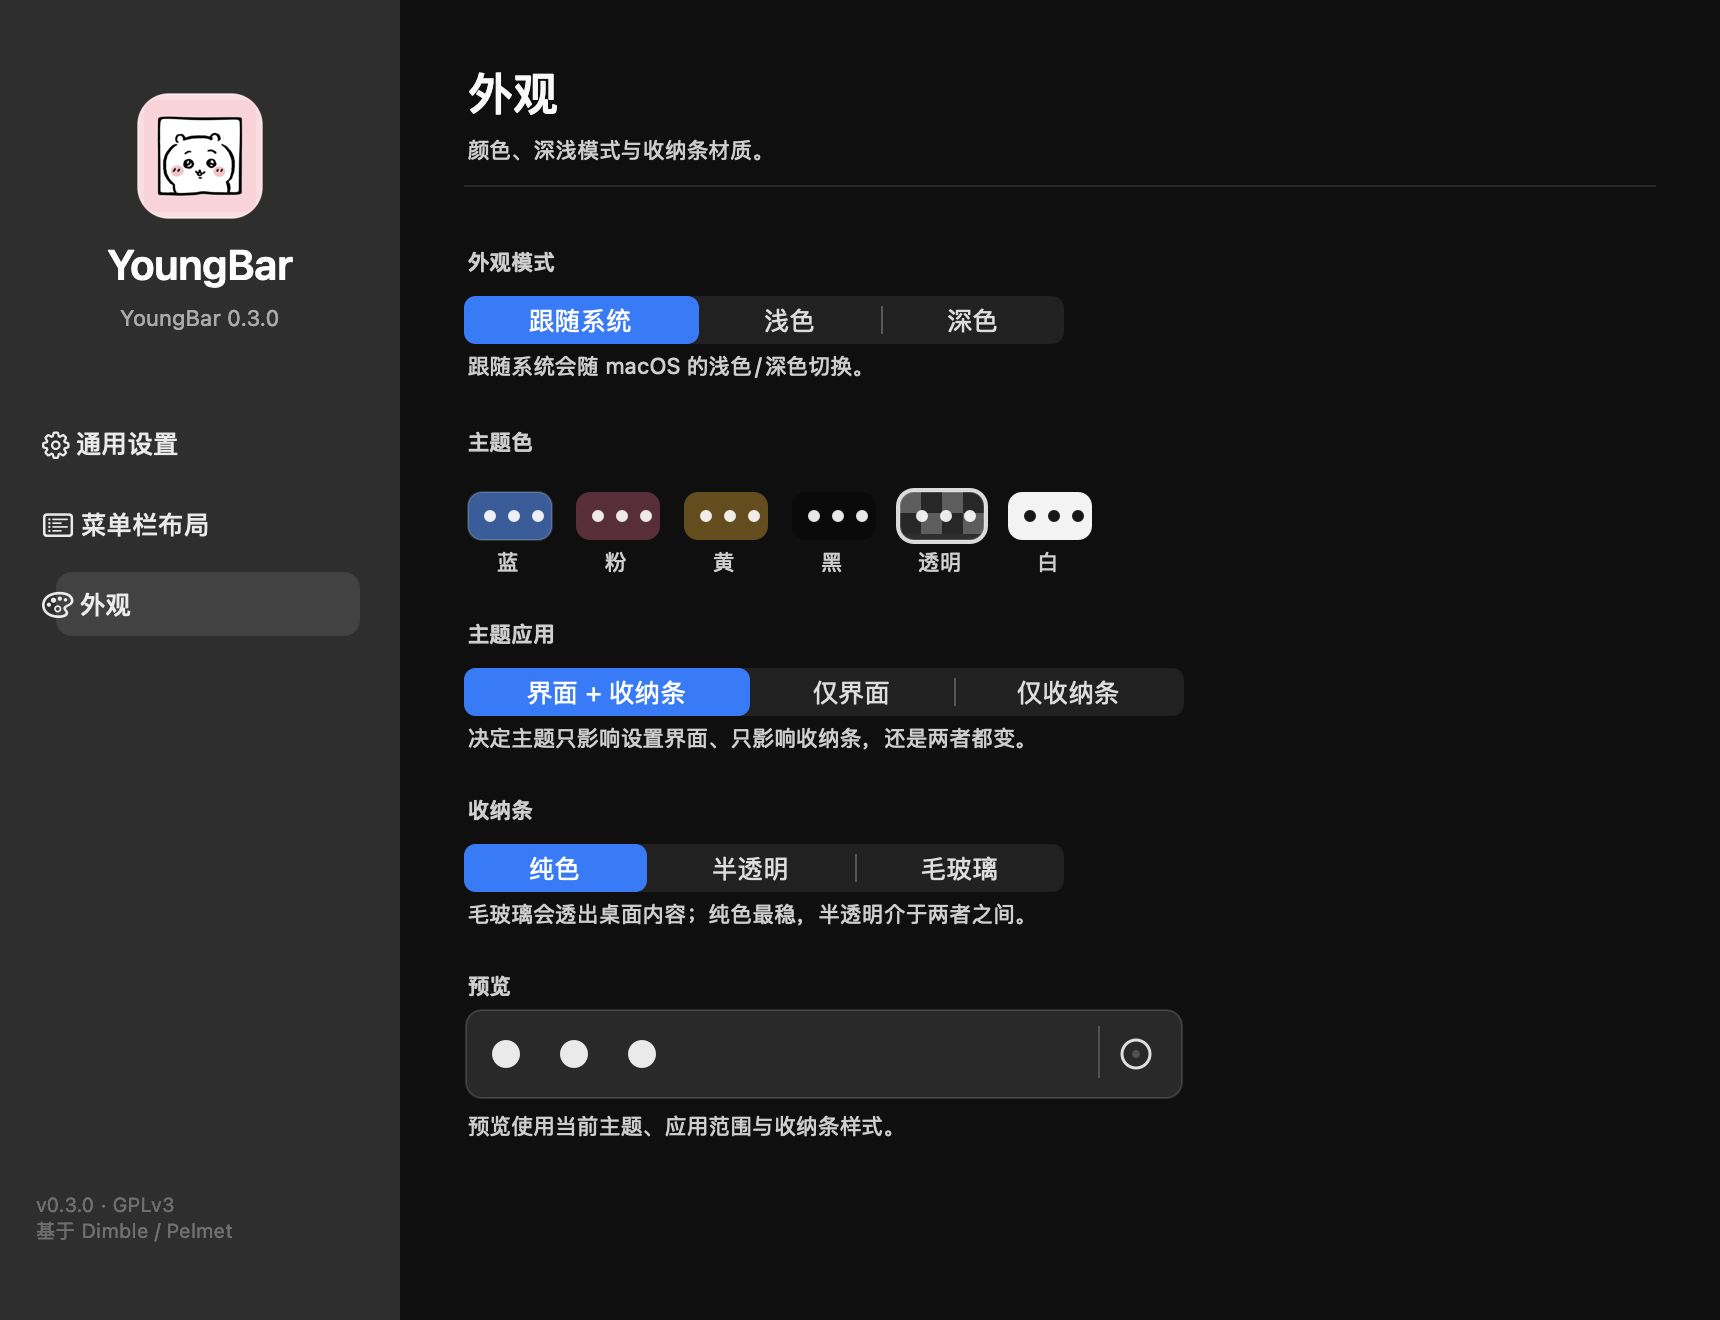
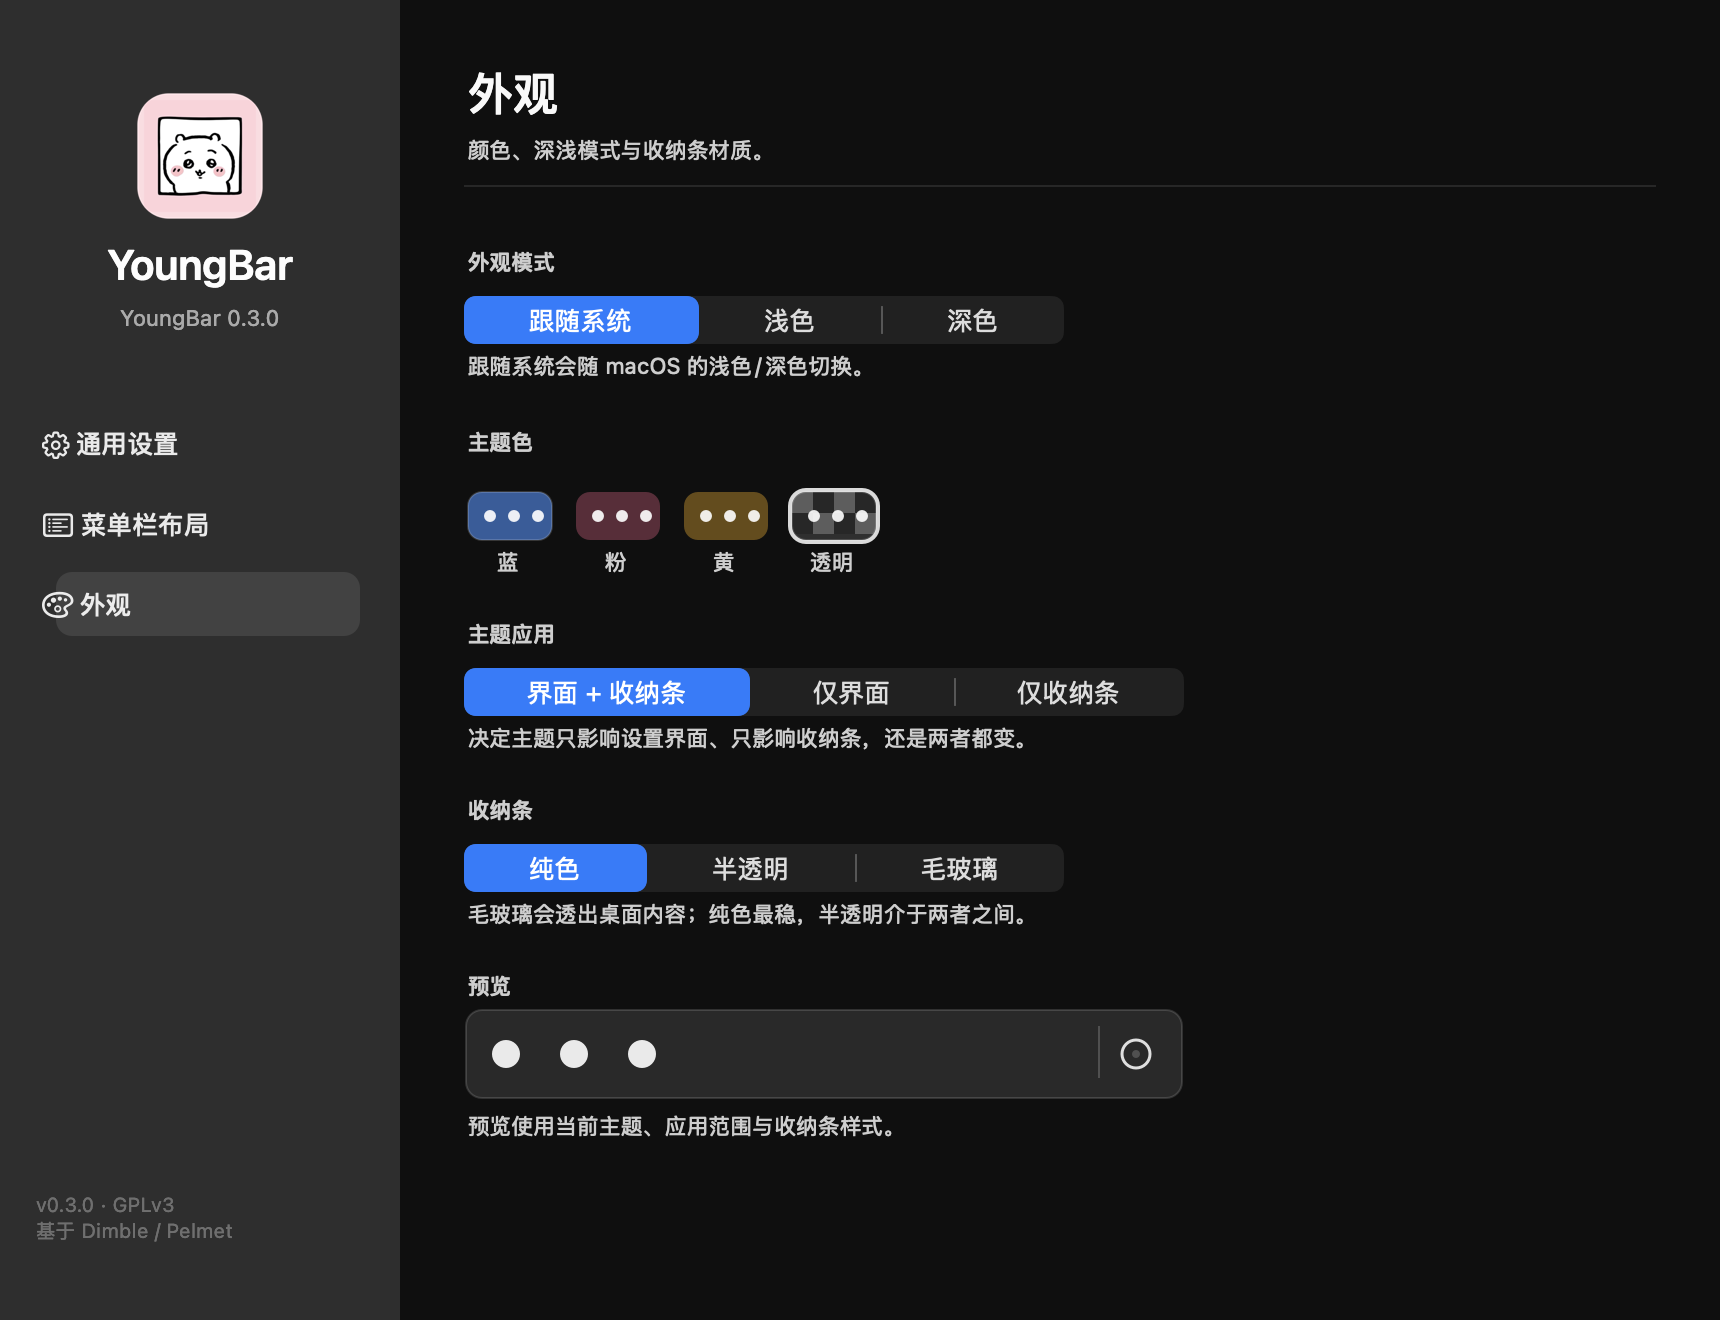
feat(youngbar): 收敛为四套主题，透明跟随系统深浅
- 移除黑/白主题，只保留蓝/粉/黄/透明
- 透明=原生玻璃，深色白图标/浅色黑图标，界面中性
- 色块保持迷你收纳条预览
- 截图与第 133 轮日志

Changed region(s): [[0.4314, 0.3727, 0.6471, 0.4348]]

diff --git a/Sources/YoungBar/Theme.swift b/Sources/YoungBar/Theme.swift
@@ -24,16 +24,14 @@ enum AppearanceMode: Int, CaseIterable {
 /// Accent + strip palette. The strip colour is deliberately deeper than the
 /// accent so menu-bar symbols stay legible; white uses dark symbols instead.
 enum ThemeColor: Int, CaseIterable {
-    case blue, pink, yellow, black, clear, white
+    case blue, pink, yellow, clear
 
     var title: String {
         switch self {
         case .blue: return "蓝"
         case .pink: return "粉"
         case .yellow: return "黄"
-        case .black: return "黑"
         case .clear: return "透明"
-        case .white: return "白"
         }
     }
 
@@ -42,9 +40,7 @@ enum ThemeColor: Int, CaseIterable {
         case .blue: return NSColor(calibratedRed: 0.20, green: 0.45, blue: 0.95, alpha: 1)
         case .pink: return NSColor(calibratedRed: 0.85, green: 0.48, blue: 0.60, alpha: 1)
         case .yellow: return NSColor(calibratedRed: 0.90, green: 0.72, blue: 0.36, alpha: 1)
-        case .black: return NSColor(calibratedWhite: 0.56, alpha: 1)
         case .clear: return NSColor(calibratedWhite: 0.55, alpha: 1)
-        case .white: return NSColor(calibratedWhite: 0.78, alpha: 1)
         }
     }
 
@@ -53,13 +49,11 @@ enum ThemeColor: Int, CaseIterable {
         case .blue: return .clear
         case .pink: return NSColor(calibratedRed: 0.29, green: 0.12, blue: 0.17, alpha: 1)
         case .yellow: return NSColor(calibratedRed: 0.33, green: 0.23, blue: 0.06, alpha: 1)
-        case .black: return NSColor(calibratedWhite: 0.04, alpha: 1)
         case .clear: return .clear
-        case .white: return NSColor(calibratedWhite: 0.94, alpha: 1)
         }
     }
 
-    var isLightStrip: Bool { self == .white }
+    var isLightStrip: Bool { false }
     var isTransparent: Bool { self == .clear || self == .blue }
 
     /// Tint applied when the strip is rendered as glass.
@@ -76,7 +70,7 @@ enum ThemeColor: Int, CaseIterable {
         case .blue: return "Theme-blue"
         case .pink: return "Theme-pink"
         case .yellow: return "Theme-yellow"
-        case .black, .clear, .white: return nil
+        case .clear: return nil
         }
     }
 }
@@ -132,6 +126,7 @@ func themeIcon(_ color: ThemeColor) -> NSImage? {
 final class ThemePreviewView: NSView {
     var color: ThemeColor = .blue { didSet { needsDisplay = true } }
     var style: StripStyle = .solid { didSet { needsDisplay = true } }
+    var isDark: Bool = true { didSet { needsDisplay = true } }
 
     override var isFlipped: Bool { true }
 
@@ -139,8 +134,9 @@ final class ThemePreviewView: NSView {
         let rect = bounds.insetBy(dx: 1, dy: 1)
         let path = NSBezierPath(roundedRect: rect, xRadius: 8, yRadius: 8)
         if color.isTransparent {
-            NSColor(white: 0.24, alpha: 0.55).setFill(); path.fill()
-            if color != .clear {
+            NSColor(white: isDark ? 0.24 : 0.86, alpha: isDark ? 0.55 : 0.72).setFill()
+            path.fill()
+            if color == .blue {
                 color.glassTint.setFill(); path.fill()
             }
             NSColor.white.withAlphaComponent(0.14).setStroke(); path.lineWidth = 1; path.stroke()
@@ -156,7 +152,8 @@ final class ThemePreviewView: NSView {
             }
         }
 
-        (color.isLightStrip ? NSColor.black : NSColor.white).withAlphaComponent(0.9).setFill()
+        let symbolColor: NSColor = (color == .clear && !isDark) || color.isLightStrip ? .black : .white
+        symbolColor.withAlphaComponent(0.9).setFill()
         for index in 0..<3 {
             let x = 14 + CGFloat(index) * 34
             NSBezierPath(ovalIn: NSRect(x: x, y: rect.midY - 7, width: 14, height: 14)).fill()
@@ -165,7 +162,7 @@ final class ThemePreviewView: NSView {
         NSColor.white.withAlphaComponent(0.18).setFill()
         NSRect(x: rect.maxX - 42, y: 9, width: 1, height: rect.height - 18).fill()
 
-        (color.isLightStrip ? NSColor.black : NSColor.white).withAlphaComponent(0.85).setStroke()
+        symbolColor.withAlphaComponent(0.85).setStroke()
         let gear = NSBezierPath(ovalIn: NSRect(x: rect.maxX - 30, y: rect.midY - 7, width: 14, height: 14))
         gear.lineWidth = 1.5
         gear.stroke()

diff --git a/Sources/YoungBar/main.swift b/Sources/YoungBar/main.swift
@@ -1069,17 +1069,18 @@ final class BarApp: NSObject, NSApplicationDelegate {
         shelfPanel.setContentSize(NSSize(width: width, height: height))
         let isDark = NSApp.effectiveAppearance.bestMatch(from: [.darkAqua, .aqua]) == .darkAqua
         let themed = themeScope != .interfaceOnly
-        let effectiveColor: ThemeColor? = themed ? themeColor : nil
-        let stripColor: NSColor = effectiveColor?.strip ?? (isDark ? .black : .white)
-        let lightStrip = effectiveColor?.isLightStrip ?? !isDark
-        let transparentStrip = effectiveColor?.isTransparent ?? false
-        let useGlass = transparentStrip || stripStyle == .vibrant
+        let themeForStrip: ThemeColor? = themed ? themeColor : nil
+        let systemStrip = themeForStrip == nil || themeForStrip == .clear
+        let useGlass = systemStrip || themeForStrip == .blue || stripStyle == .vibrant
+        let lightStrip = systemStrip ? !isDark : false
         let iconColor: NSColor = lightStrip ? .black : .white
+        let glassTint: NSColor = systemStrip ? .clear : (themeForStrip?.glassTint ?? .clear)
+        let stripColor: NSColor = themeForStrip?.strip ?? .clear
 
         let background: NSView
         if useGlass {
             let effect = NSVisualEffectView(frame: NSRect(x: 0, y: 0, width: width, height: height))
-            effect.material = .hudWindow
+            effect.material = systemStrip ? (isDark ? .hudWindow : .menu) : .hudWindow
             effect.blendingMode = .behindWindow
             effect.state = .active
             effect.wantsLayer = true
@@ -1088,7 +1089,7 @@ final class BarApp: NSObject, NSApplicationDelegate {
             let tint = NSView(frame: effect.bounds)
             tint.autoresizingMask = [.width, .height]
             tint.wantsLayer = true
-            tint.layer?.backgroundColor = (effectiveColor.map(\.glassTint) ?? themeColor.glassTint).cgColor
+            tint.layer?.backgroundColor = glassTint.cgColor
             effect.addSubview(tint)
             background = effect
         } else {

diff --git a/Sources/YoungBar/BarSettings.swift b/Sources/YoungBar/BarSettings.swift
@@ -525,7 +525,8 @@ final class BarSettings: NSObject, NSTableViewDataSource, NSTableViewDelegate {
             ? theme.accent.withAlphaComponent(0.08)
             : NSColor.clear).cgColor
         let isDark = NSApp.effectiveAppearance.bestMatch(from: [.darkAqua, .aqua]) == .darkAqua
-        preview.color = scope == .interfaceOnly ? (isDark ? .black : .white) : theme
+        preview.isDark = isDark
+        preview.color = scope == .interfaceOnly ? .clear : theme
         scrim.layer?.backgroundColor = (isDark
             ? NSColor.black.withAlphaComponent(0.46)
             : NSColor.white.withAlphaComponent(0.58)).cgColor

diff --git a/docs/STATUS.md b/docs/STATUS.md
@@ -43,10 +43,10 @@
 | 卡片式布局 | ✅ 每条独立圆角行，整行可拖，无表头/边框 |
 | 一页布局 | ✅ 行高按项目数自动压缩，12 项一屏放下 | `docs/images/settings-layout.png` | `docs/images/settings-layout.png` |
 | 布局顺序校准 | ✅ 新项按真实 x 插入；可见项每次刷新校准并持久化 | `itemOrder` 以有道翻译开头；`docs/images/settings-layout.png` |
-| 外观主题 | ✅ 深/浅/跟随系统 + 6 主题色（色块为迷你收纳条）+ 3 种收纳条 |
+| 外观主题 | ✅ 深/浅/跟随系统 + 4 主题（蓝/粉/黄/透明）+ 3 种收纳条 |
 | 主题图标 | ✅ 蓝猫 / 粉羊 / 黄兔随主题切换（侧栏、关于） | `appearance-{blue,pink,yellow}.png` |
 | 主题应用范围 | ✅ 界面 + 收纳条 / 仅界面 / 仅收纳条 | `appearance-white.png`、`shelf-white.png` |
-| 蓝 / 透明区分 | ✅ 蓝=蓝色玻璃；透明=中性玻璃，不再被系统蓝染色 | `appearance-blue.png`、`appearance-clear.png`、`shelf-blue.png` | `docs/images/appearance-{dark,light}.png`、`shelf-sakura.png` |
+| 透明主题 | ✅ 跟随系统：深色玻璃白图标 / 浅色玻璃黑图标，界面中性 | `appearance-clear.png` | `docs/images/appearance-{dark,light}.png`、`shelf-sakura.png` |
 | 关于窗口 | ✅ 菜单打开，显示版本 0.3.0 (3) | `abouttest.json`；`docs/images/about.png` |
 | 全局快捷键 | ✅ ⌃⌥B 展开 / 收起，无需鼠标 | `hotkeytest.json`：`opened:true`、`closed:true`、`passed:true` |
 | 收纳条齿轮 | ✅ 真实点击打开设置并收起收纳条 | `geartest.json`：`settingsOpened:true`、`shelfClosed:true`、`passed:true` |

diff --git a/README.md b/README.md
@@ -15,7 +15,7 @@ A keyboard-first menu bar organizer for **macOS 27**. Hide the icons you do not 
 - **Reorder**: ⌘-drag in the real menu bar (verified with a swap-and-restore test) and drag rows in the layout table.
 - **Global hotkey**: ⌃⌥B toggles the strip without the mouse.
 - **Layout list**: one rounded card per item (name, icon, Hide, Always Hidden), draggable as a whole row, with system items included. Date and Control Center keep their macOS-fixed position but can be hidden.
-- **Appearance**: liquid-glass settings window with integrated traffic lights (no separate titlebar), system / light / dark, six palettes (blue glass, pink, yellow, black, neutral clear, white) with mini-strip swatches, theme-matched sidebar icons for blue/pink/yellow, a three-way scope (interface + strip / interface only / strip only), and solid / translucent / vibrant strip materials.
+- **Appearance**: liquid-glass settings window with integrated traffic lights (no separate titlebar), system / light / dark, four palettes (blue glass, pink, yellow, neutral clear that follows the system light/dark) with mini-strip swatches, theme-matched sidebar icons for blue/pink/yellow, a three-way scope (interface + strip / interface only / strip only), and solid / translucent / vibrant strip materials.
 - **Settings entry from the strip**: a pinned gear at the right edge.
 - **Local only**: no telemetry, no network. Menu-bar crops are cached in `~/Library/Application Support/YoungBar/pictures.json` and can be cleared from the menu.
 
